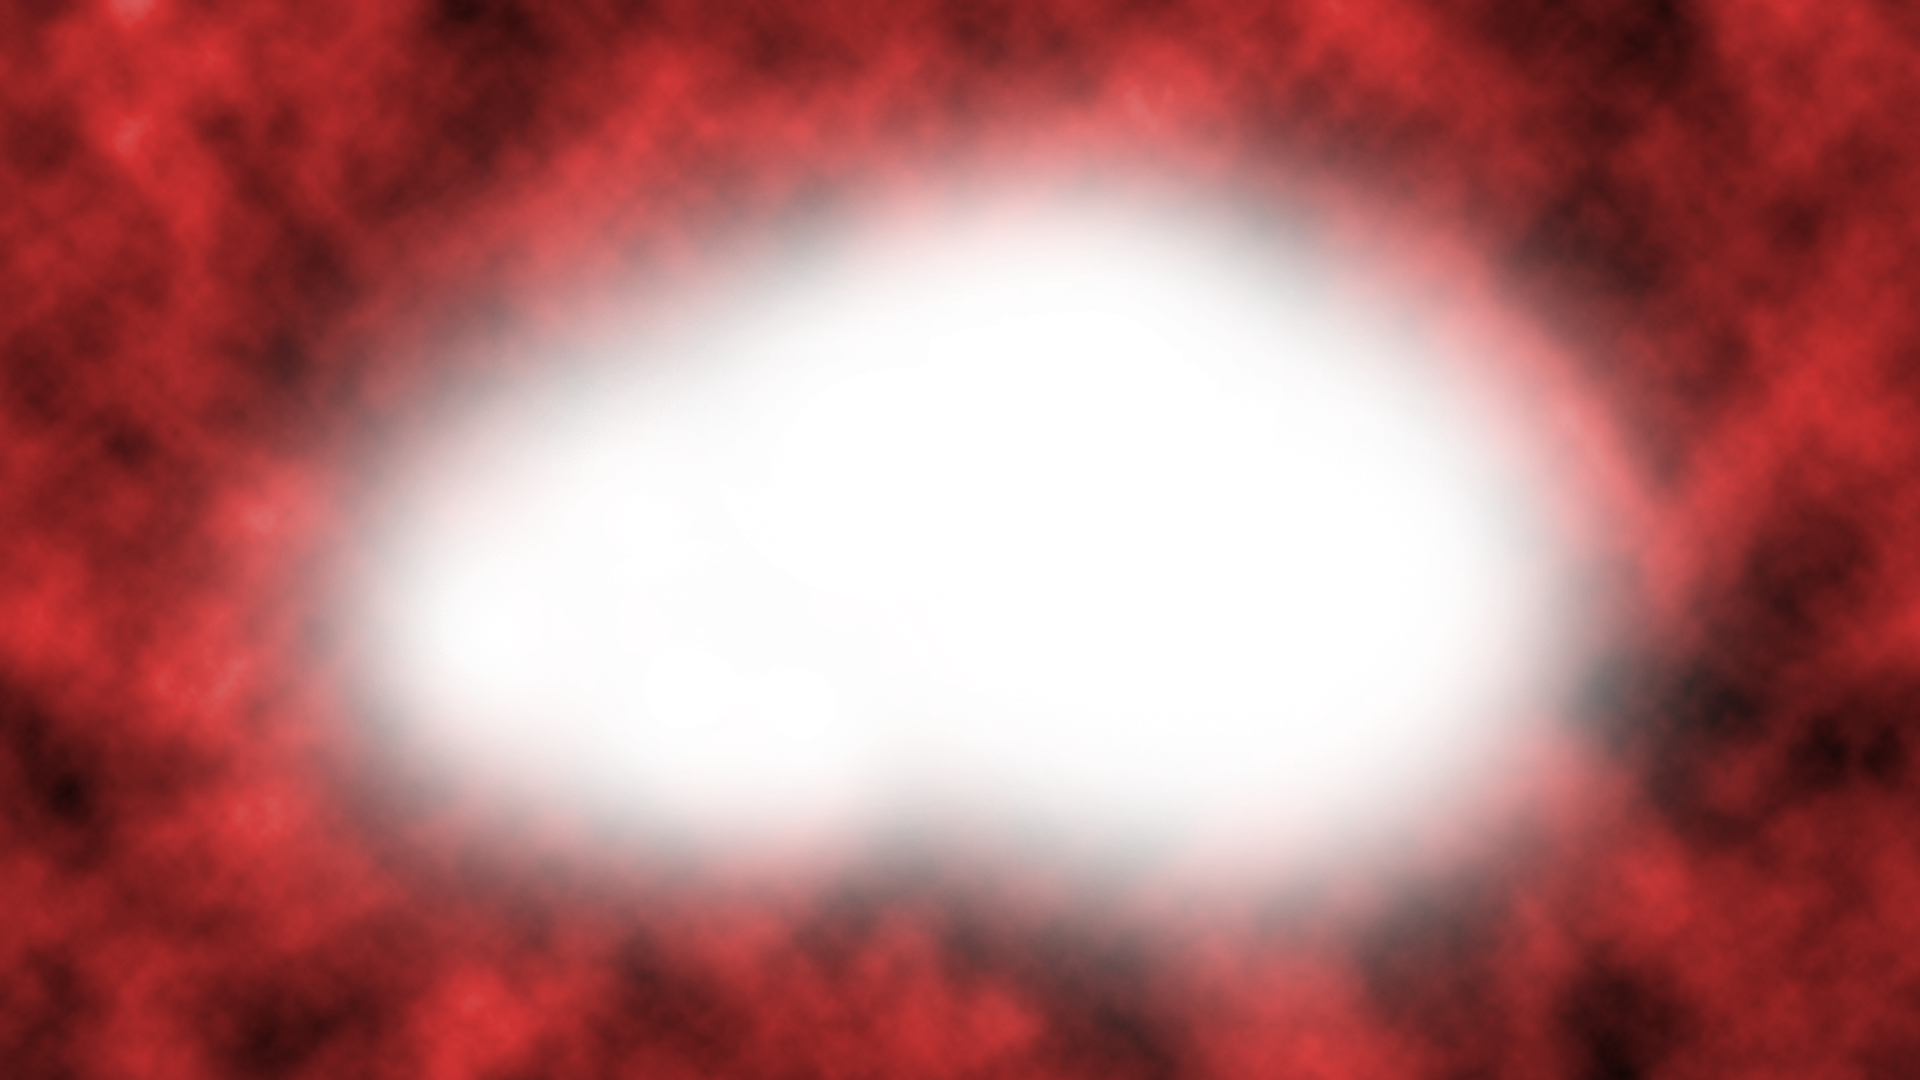
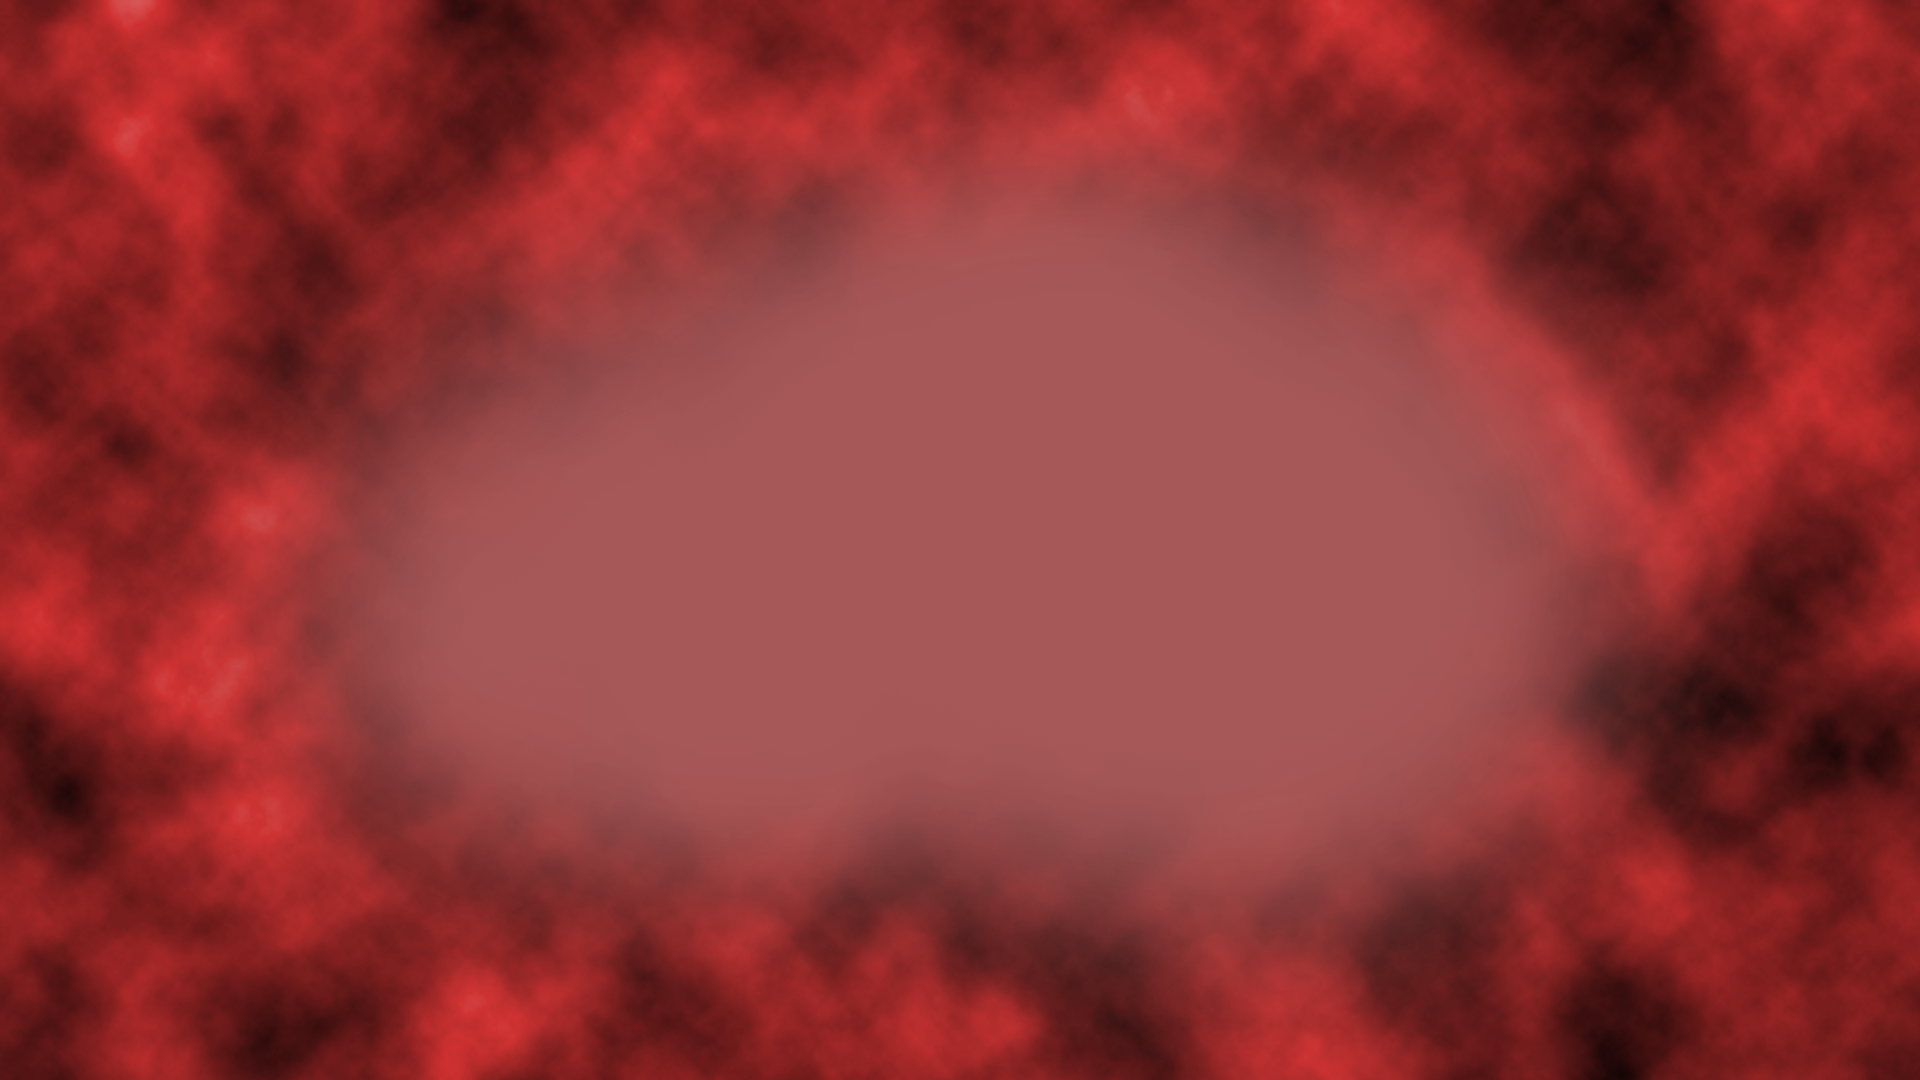
blood fix and update

diff --git a/Assets/Scripts/HealthNetwork.cs b/Assets/Scripts/HealthNetwork.cs
@@ -45,7 +45,7 @@ public class HealthNetwork : NetworkBehaviour {
     */
 
     private void OnHealthUpdate(float health)  {
-        if (health < currentHealth)
+        if (health < currentHealth && netId == PlayerHandler.LocalWardenNetId)
             EventManager.FireTakeDamageUIEffect();
         hpBar.SetHealthBar(health,maxHealth);
         currentHealth = health;
